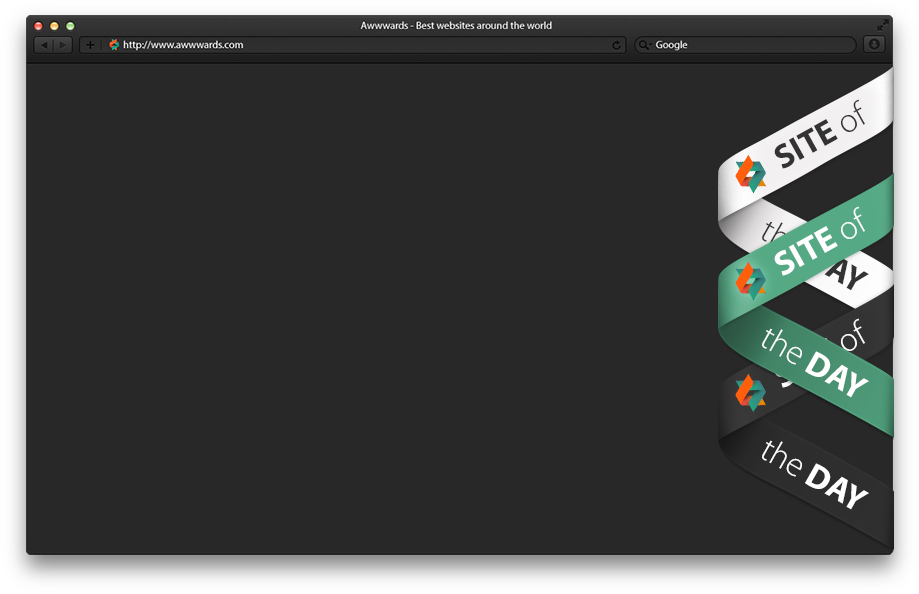
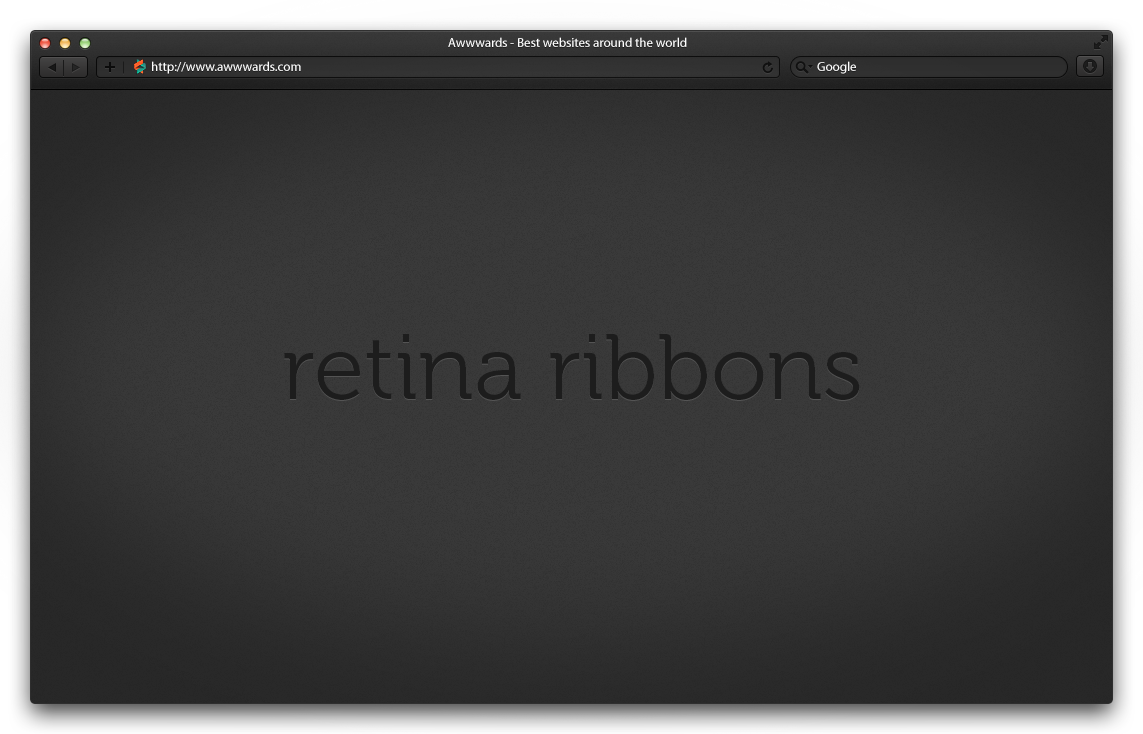
Graphics Update
Updated graphics, added retina frame, adjusted keyframe timing

Changed region(s): [[0.0, 0.0, 1.0, 1.0], [0.7617, 0.7273, 0.7922, 0.7576]]

diff --git a/css/style.css b/css/style.css
@@ -60,19 +60,6 @@ p {}
 	position: static;
 }
 
-/*
-.brand {
-	margin: 0 auto;
-}
-
-.brand img{
-	float: left;
-	position: relative;
-	display: block;
-	padding-top: 60px;
-	padding-bottom: 60px;
-}
-*/
 .navbar .brand {
 	display: block;
 	float: none;
@@ -173,7 +160,22 @@ p {}
 	margin-top: 0px;
 	padding: 0px 0px 0px 0px;
 	position: relative;
+	text-align: center;
 }
+
+/*
+.hero-unit h2 {
+	font-family: "Museo-300";
+	font-size: 48px;
+	font-weight: normal;
+	font-style: normal;
+	display: block;
+	position: absolute;
+	z-index: 13;
+	color: #181818;
+	text-shadow: 0px 1px 0px #404040;
+}
+*/
 
 img.browser {
 	position: relative;
@@ -196,6 +198,11 @@ img.ribbon-black {
 
 img.ribbon-green {
 	z-index: 12;
+	position: absolute;
+}
+
+img.retina {
+	z-index: 9;
 	position: absolute;
 }
 

diff --git a/index.html b/index.html
@@ -54,6 +54,8 @@
     		<img class="ribbon-white animated bounceInDown" id="ribbonone" src="img/ribbon-white.png" height="594" width="919" alt="White Ribbon">
     		<img class="ribbon-black animated bounceInDown" id="ribbontwo" src="img/ribbon-black.png" height="594" width="919" alt="Black Ribbon">
     		<img class="ribbon-green animated bounceInDown" id="ribbonthree" src="img/ribbon-green.png" height="594" width="919" alt="Green Ribbon">
+    		<img class="retina animated fadeIn" id="retina" src="img/retina.png" height="594" width="919" alt="Retina">
+    		<!-- <h2>retina ribbons</h2> -->
     		<img class="browser animated fadeInUp" id="browser" src="img/browser2x.png" height="594" width="919" alt="Browser Window">
     	</div>
     	

diff --git a/css/keyframes.css b/css/keyframes.css
@@ -121,6 +121,21 @@
     -o-animation-iteration-count: 1;
 }
 
+#retina {
+    -webkit-animation-duration: 1s;
+    -moz-animation-duration: 1s;
+    -ms-animation-duration: 1s;
+    -o-animation-duration: 1s;
+    -webkit-animation-delay: 4s;
+    -moz-animation-delay: 4s;
+    -ms-animation-delay: 4s;
+    -o-animation-delay: 4s;
+    -webkit-animation-iteration-count: 1;
+    -moz-animation-iteration-count: 1;
+    -ms-animation-iteration-count: 1;
+    -o-animation-iteration-count: 1;
+}
+
 #browser {
     -webkit-animation-duration: 1s;
     -moz-animation-duration: 1s;
